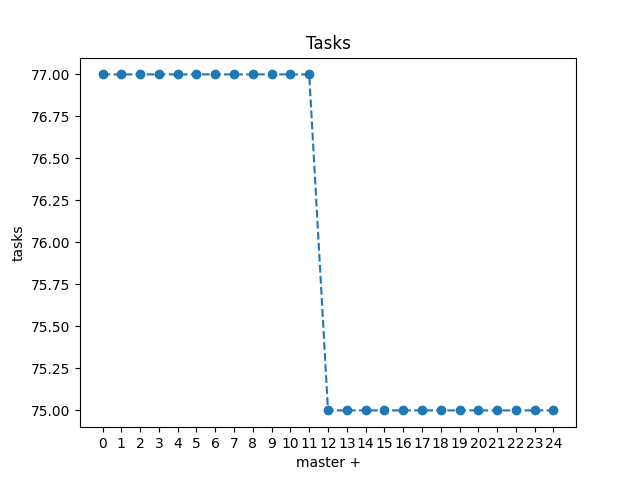
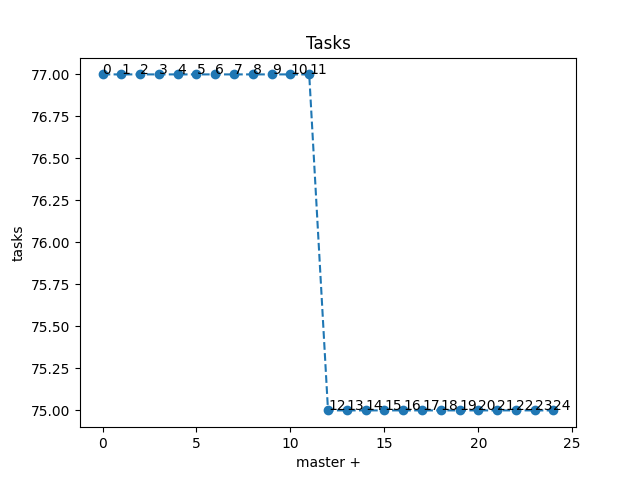
Better graphs

diff --git a/term2-pr3-bench/drawbench.py b/term2-pr3-bench/drawbench.py
@@ -42,32 +42,38 @@ x = [i for i in range(len(tpss))]
 
 plt.plot(x, tpss, 'o--')
 plt.title('TPS')
-plt.xticks(x)
 plt.xlabel('master +')
 plt.ylabel('tps')
+
+for (x_coord, y) in zip(x, tpss):
+    plt.annotate(str(x_coord), (x_coord, y))
+
 plt.savefig(os.path.join(out_dir, 'tps.png'))
 plt.close()
 
 plt.plot(x, instructionss, 'o--')
 plt.title('Instructions')
-plt.xticks(x)
 plt.xlabel('master +')
 plt.ylabel('instructions')
+for (x_coord, y) in zip(x, instructionss):
+    plt.annotate(str(x_coord), (x_coord, y))
 plt.savefig(os.path.join(out_dir, 'instructions.png'))
 plt.close()
 
 plt.plot(x, taskss, 'o--')
 plt.title('Tasks')
-plt.xticks(x)
 plt.xlabel('master +')
 plt.ylabel('tasks')
+for (x_coord, y) in zip(x, taskss):
+    plt.annotate(str(x_coord), (x_coord, y))
 plt.savefig(os.path.join(out_dir, 'tasks.png'))
 plt.close()
 
 plt.plot(x, allocss, 'o--')
 plt.title("Allocations")
-plt.xticks(x)
 plt.xlabel('master +')
 plt.ylabel('allocations')
+for (x_coord, y) in zip(x, allocss):
+    plt.annotate(str(x_coord), (x_coord, y))
 plt.savefig(os.path.join(out_dir, 'allocations.png'))
 plt.close()
